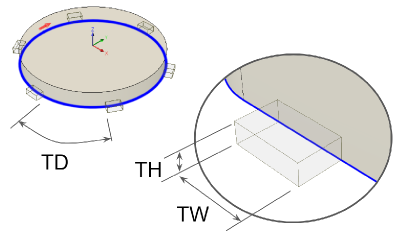
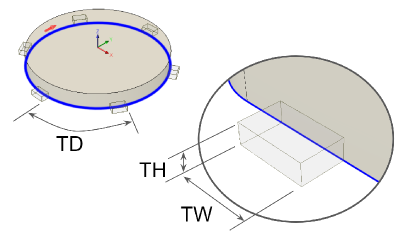
remade tab diagrams and replaced

diff --git a/src/asmcnc/shapeCutter_app/screen_shapeCutter_exit.py b/src/asmcnc/shapeCutter_app/screen_shapeCutter_exit.py
@@ -1,0 +1,127 @@
+'''
+Created on 5 March 2020
+Job Cancelled Screen for the Shape Cutter App
+
+@author: Letty
+'''
+
+from kivy.lang import Builder
+from kivy.uix.screenmanager import ScreenManager, Screen
+from kivy.properties import ObjectProperty
+from kivy.clock import Clock
+
+Builder.load_string("""
+
+<ShapeCutterExitScreenClass>:
+    
+    BoxLayout:
+        height: dp(800)
+        width: dp(480)
+        canvas:
+            Rectangle: 
+                pos: self.pos
+                size: self.size
+                source: "./asmcnc/shapeCutter_app/img/landing_background.png"
+
+        BoxLayout:
+            padding: 0
+            spacing: 0
+            orientation: "vertical"       
+                
+            Label:
+                size_hint: (None,None)
+                height: dp(90)
+                width: dp(800)
+                text: "Leaving Shape Cutter..."
+                font_size: 30
+                halign: "center"
+                valign: "bottom"
+                markup: True
+                   
+                    
+            BoxLayout:
+                size_hint: (None,None)
+                width: dp(800)
+                height: dp(390)
+                padding: 0,110,0,110
+                spacing: 0
+                Label:
+                    size_hint: (None,None)
+                    height: dp(170)
+                    width: dp(800)
+                    halign: "center"
+                    valign: "middle"
+                    text: "Bye!"
+                    color: 0,0,0,1
+                    font_size: 26
+                    markup: True
+
+""")
+
+class ShapeCutterExitScreenClass(Screen):
+
+    info_button = ObjectProperty()   
+    
+    def __init__(self, **kwargs):
+        super(ShapeCutterExitScreenClass, self).__init__(**kwargs)
+        self.sm=kwargs['screen_manager']
+        self.m=kwargs['machine']
+
+    def on_enter(self):
+        self.poll_for_success = Clock.schedule_once(self.exit_screen, 2)
+ 
+    def exit_screen(self, dt):
+        if not self.sm.current == 'alarmScreen':
+            self.sm.current = 'lobby'
+        
+    def on_pre_leave(self):
+        self.purge_screens()
+    
+    def on_leave(self):
+        self.sm.remove_widget(self.sm.get_screen('sCexit'))
+    
+    def purge_screens(self):
+        self.sm.remove_widget(self.sm.get_screen('sClanding'))
+        self.sm.remove_widget(self.sm.get_screen('sCdimensions'))
+        self.sm.remove_widget(self.sm.get_screen('sCApIs'))
+        
+        self.sm.remove_widget(self.sm.get_screen('sC1'))
+        self.sm.remove_widget(self.sm.get_screen('sC2'))
+        self.sm.remove_widget(self.sm.get_screen('sC3'))
+        self.sm.remove_widget(self.sm.get_screen('sC4'))
+        self.sm.remove_widget(self.sm.get_screen('sC5'))
+        self.sm.remove_widget(self.sm.get_screen('sC6'))
+        self.sm.remove_widget(self.sm.get_screen('sC7'))
+        self.sm.remove_widget(self.sm.get_screen('sC8'))
+        self.sm.remove_widget(self.sm.get_screen('sC9'))
+        self.sm.remove_widget(self.sm.get_screen('sC10'))
+        self.sm.remove_widget(self.sm.get_screen('sC11'))
+        self.sm.remove_widget(self.sm.get_screen('sC12'))
+        self.sm.remove_widget(self.sm.get_screen('sC13'))
+        self.sm.remove_widget(self.sm.get_screen('sC14'))
+        self.sm.remove_widget(self.sm.get_screen('sC15'))
+        self.sm.remove_widget(self.sm.get_screen('sC16'))
+        self.sm.remove_widget(self.sm.get_screen('sC17'))
+        self.sm.remove_widget(self.sm.get_screen('sC18'))
+        self.sm.remove_widget(self.sm.get_screen('sC19'))
+        self.sm.remove_widget(self.sm.get_screen('sC20'))
+        self.sm.remove_widget(self.sm.get_screen('sC21'))
+        self.sm.remove_widget(self.sm.get_screen('sC22'))
+        self.sm.remove_widget(self.sm.get_screen('sC23'))
+        self.sm.remove_widget(self.sm.get_screen('sC24'))
+        self.sm.remove_widget(self.sm.get_screen('sC25'))
+        self.sm.remove_widget(self.sm.get_screen('sC26'))
+        self.sm.remove_widget(self.sm.get_screen('sC27'))
+        self.sm.remove_widget(self.sm.get_screen('sC28'))
+        self.sm.remove_widget(self.sm.get_screen('sC29'))
+        self.sm.remove_widget(self.sm.get_screen('sC30'))
+        self.sm.remove_widget(self.sm.get_screen('sC31'))
+        self.sm.remove_widget(self.sm.get_screen('sC32'))
+        self.sm.remove_widget(self.sm.get_screen('sC33'))
+        self.sm.remove_widget(self.sm.get_screen('sC34'))
+        self.sm.remove_widget(self.sm.get_screen('sC35'))
+        self.sm.remove_widget(self.sm.get_screen('sC36'))
+        self.sm.remove_widget(self.sm.get_screen('sCsavejob'))
+        self.sm.remove_widget(self.sm.get_screen('sCfeedback'))
+        self.sm.remove_widget(self.sm.get_screen('sCrepeat'))
+

diff --git a/src/asmcnc/shapeCutter_app/screen_shapeCutter_landing.py b/src/asmcnc/shapeCutter_app/screen_shapeCutter_landing.py
@@ -52,7 +52,7 @@ from asmcnc.shapeCutter_app import screen_shapeCutter_36
 from asmcnc.shapeCutter_app import screen_shapeCutter_feedback
 from asmcnc.shapeCutter_app import screen_shapeCutter_repeat
 from asmcnc.shapeCutter_app import screen_shapeCutter_post_job_save
-from asmcnc.shapeCutter_app import screen_shapeCutter_job_cancelled
+from asmcnc.shapeCutter_app import screen_shapeCutter_exit
 
 from asmcnc.shapeCutter_app.cut_parameters import sC_job_parameters
 
@@ -205,7 +205,7 @@ class ShapeCutterLandingScreenClass(Screen):
         # initialise job parameters
         self.j = sC_job_parameters.ShapeCutterJobParameters()
 
-    def on_enter(self):
+    def on_pre_enter(self):
         self.load_screens()
         
     def load_screens(self):
@@ -293,8 +293,8 @@ class ShapeCutterLandingScreenClass(Screen):
         self.sm.add_widget(sCfeedback_screen)
         sCrepeat_screen = screen_shapeCutter_repeat.ShapeCutterRepeatScreenClass(name = 'sCrepeat', screen_manager = self.sm, machine = self.m)
         self.sm.add_widget(sCrepeat_screen)
-        sCcancelled_screen = screen_shapeCutter_job_cancelled.ShapeCutterCancelledScreenClass(name = 'sCcancelled', screen_manager = self.sm, machine = self.m)
-        self.sm.add_widget(sCcancelled_screen)
+        sCexit_screen = screen_shapeCutter_exit.ShapeCutterExitScreenClass(name = 'sCexit', screen_manager = self.sm, machine = self.m)
+        self.sm.add_widget(sCexit_screen)
         
     def get_info(self):
         self.sm.current = 'sCtutorial'

diff --git a/src/asmcnc/shapeCutter_app/screen_shapeCutter_22.py b/src/asmcnc/shapeCutter_app/screen_shapeCutter_22.py
@@ -269,7 +269,7 @@ Builder.load_string("""
                                 width: dp(420)
                                 padding:20,0,0,11                          
                                 Image:
-                                    source: "./asmcnc/shapeCutter_app/img/tabs_circ.png"
+                                    source: "./asmcnc/shapeCutter_app/img/tabs_rect.png"
                                     center_x: self.parent.center_x
                                     y: self.parent.y
                                     size: self.parent.width, self.parent.height
@@ -554,7 +554,7 @@ class ShapeCutter22ScreenClass(Screen):
         self.sm.current = 'sC33'
     
     def exit(self):
-        self.sm.current = 'lobby'
+        self.sm.current = 'sCexit'
         
 # Screen specific
     def toggle_units(self):

diff --git a/src/asmcnc/shapeCutter_app/screen_shapeCutter_repeat.py b/src/asmcnc/shapeCutter_app/screen_shapeCutter_repeat.py
@@ -169,12 +169,4 @@ class ShapeCutterRepeatScreenClass(Screen):
         self.sm.current = 'sClanding'
         
     def exit(self):
-        self.exiting = True
-        self.sm.current = 'lobby'
-        
-    def on_pre_leave(self):
-        # clear out screens
-        if self.exiting == True:
-            self.exiting = False
-        else: 
-            pass
+        self.sm.current = 'sCexit'

diff --git a/src/asmcnc/shapeCutter_app/screen_shapeCutter_1.py b/src/asmcnc/shapeCutter_app/screen_shapeCutter_1.py
@@ -351,9 +351,9 @@ class ShapeCutter1ScreenClass(Screen):
         self.sm.current = 'sC33'
     
     def exit(self):
-        self.sm.current = 'lobby'
+        self.sm.current = 'sCexit'
     
 # Screen specific
     def calibrate(self):
-        self.sm.current = 'lobby'
+        self.sm.current = 'sCexit'
         

diff --git a/src/asmcnc/shapeCutter_app/screen_shapeCutter_25.py b/src/asmcnc/shapeCutter_app/screen_shapeCutter_25.py
@@ -398,7 +398,7 @@ class ShapeCutter25ScreenClass(Screen):
         self.sm.current = 'sC33'
     
     def exit(self):
-        self.sm.current = 'lobby'
+        self.sm.current = 'sCexit'
         
 # Screen commands
     def save_filename(self):

diff --git a/src/asmcnc/shapeCutter_app/screen_shapeCutter_20.py b/src/asmcnc/shapeCutter_app/screen_shapeCutter_20.py
@@ -545,7 +545,7 @@ class ShapeCutter20ScreenClass(Screen):
         self.sm.current = 'sC33'
     
     def exit(self):
-        self.sm.current = 'lobby'
+        self.sm.current = 'sCexit'
         
 # Screen specific
     def toggle_units(self):

diff --git a/src/asmcnc/shapeCutter_app/screen_shapeCutter_23.py b/src/asmcnc/shapeCutter_app/screen_shapeCutter_23.py
@@ -541,7 +541,7 @@ class ShapeCutter23ScreenClass(Screen):
         self.sm.current = 'sC33'
     
     def exit(self):
-        self.sm.current = 'lobby'
+        self.sm.current = 'sCexit'
         
 # Screen specific
     def toggle_units(self):

diff --git a/src/asmcnc/shapeCutter_app/screen_shapeCutter_24.py b/src/asmcnc/shapeCutter_app/screen_shapeCutter_24.py
@@ -541,7 +541,7 @@ class ShapeCutter24ScreenClass(Screen):
         self.sm.current = 'sC33'
     
     def exit(self):
-        self.sm.current = 'lobby'
+        self.sm.current = 'sCexit'
         
 # Screen specific
     def toggle_units(self):

diff --git a/src/asmcnc/shapeCutter_app/screen_shapeCutter_17.py b/src/asmcnc/shapeCutter_app/screen_shapeCutter_17.py
@@ -362,7 +362,7 @@ class ShapeCutter17ScreenClass(Screen):
         self.sm.current = 'sC33'
     
     def exit(self):
-        self.sm.current = 'lobby'
+        self.sm.current = 'sCexit'
         
 # Screen commands
     def load_file(self):

diff --git a/src/asmcnc/shapeCutter_app/screen_shapeCutter_35.py b/src/asmcnc/shapeCutter_app/screen_shapeCutter_35.py
@@ -333,7 +333,7 @@ class ShapeCutter35ScreenClass(Screen):
         self.sm.current = 'sC33'
     
     def exit(self):
-        self.sm.current = 'lobby'
+        self.sm.current = 'sCexit'
     
 # Screen specific
     def set_spindle(self):

diff --git a/src/asmcnc/shapeCutter_app/screen_shapeCutter_34.py b/src/asmcnc/shapeCutter_app/screen_shapeCutter_34.py
@@ -334,7 +334,7 @@ class ShapeCutter34ScreenClass(Screen):
         self.sm.current = 'sC33'
     
     def exit(self):
-        self.sm.current = 'lobby'
+        self.sm.current = 'sCexit'
     
 # Screen specific
     def set_vacuum(self):
